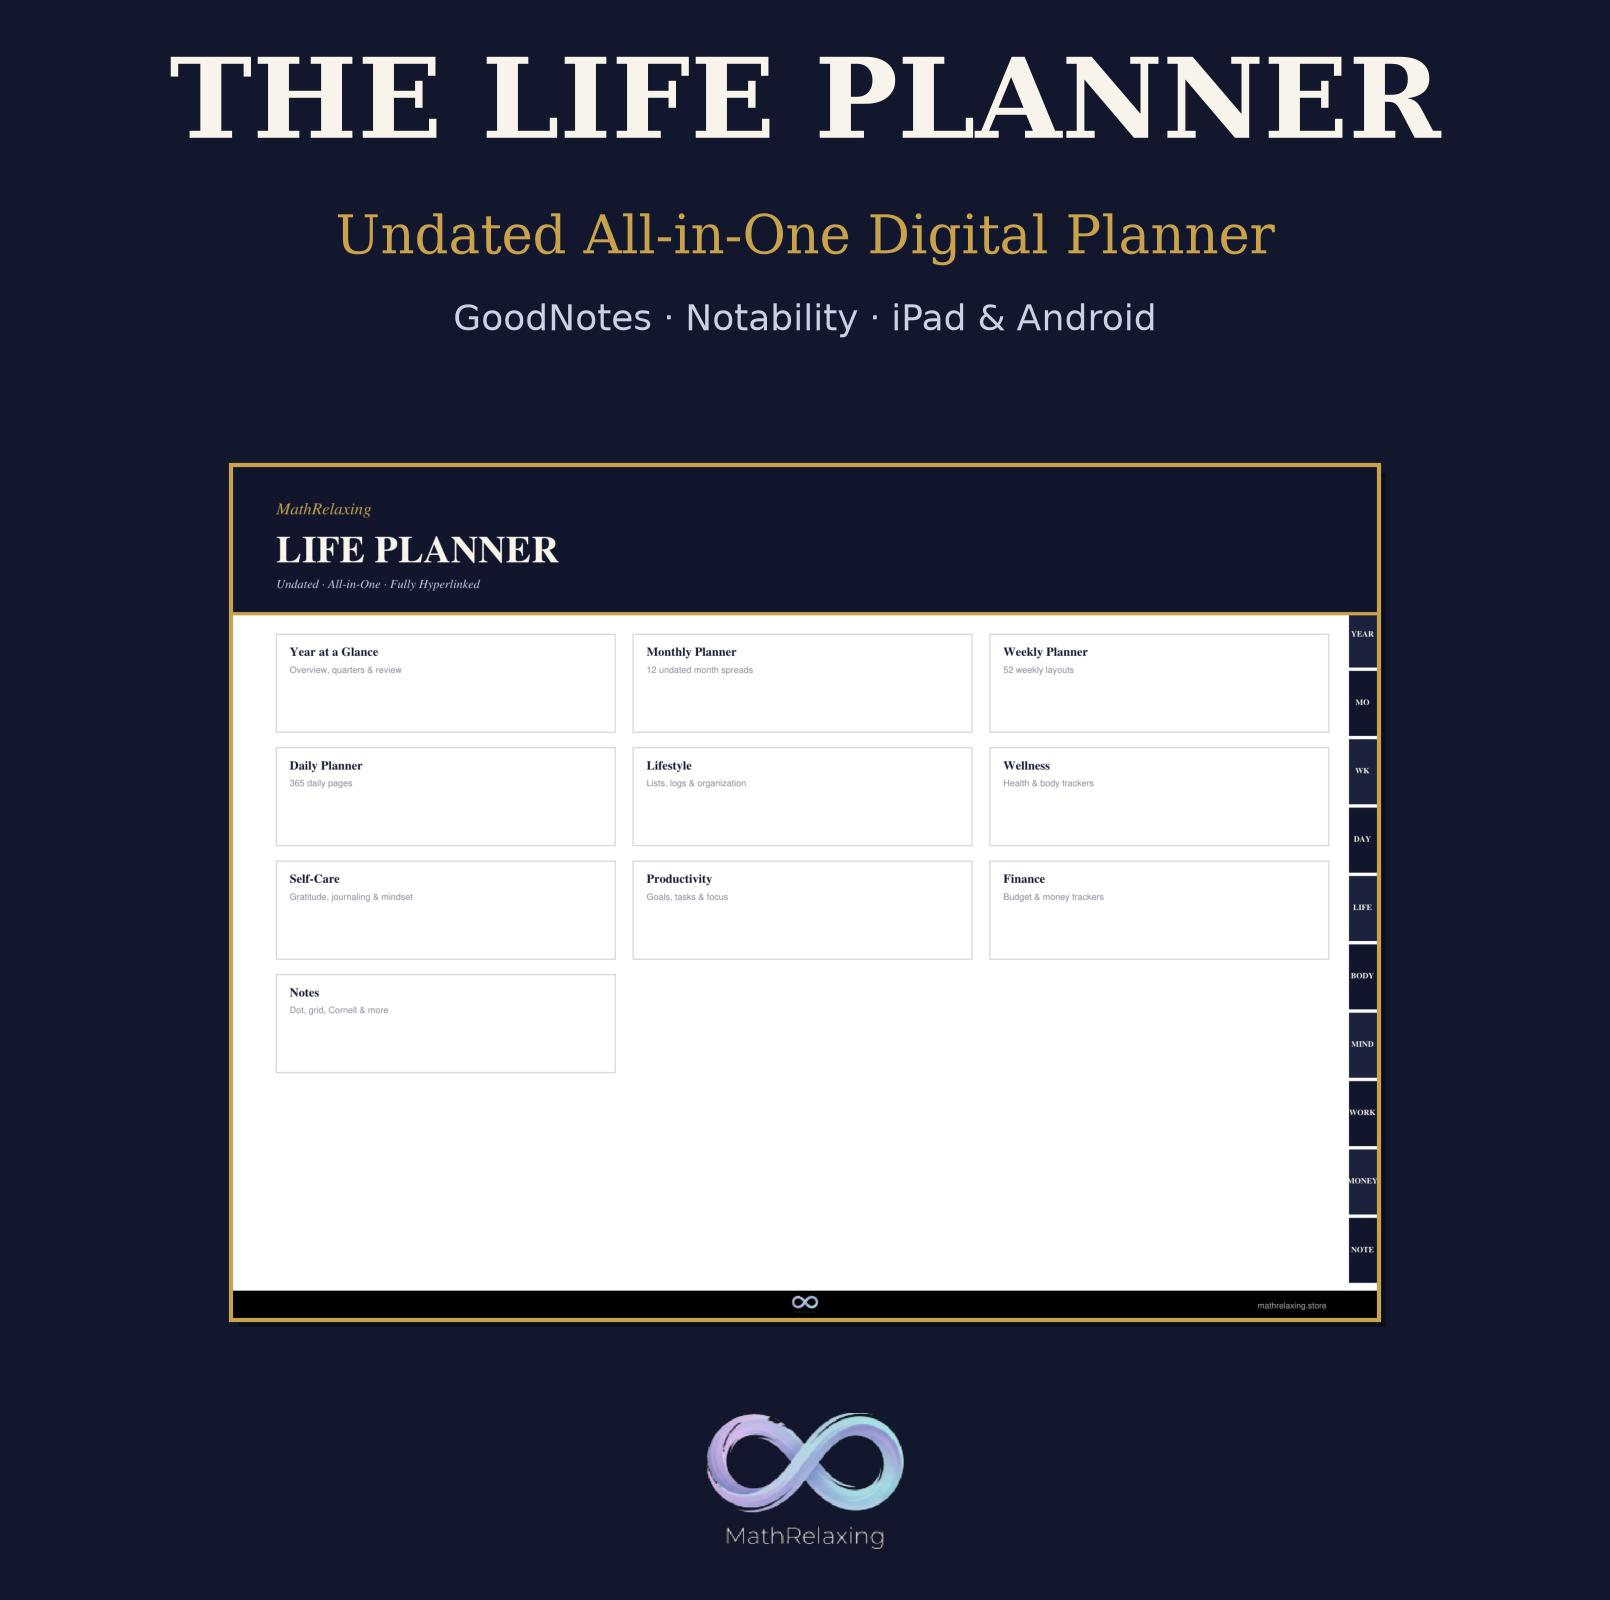
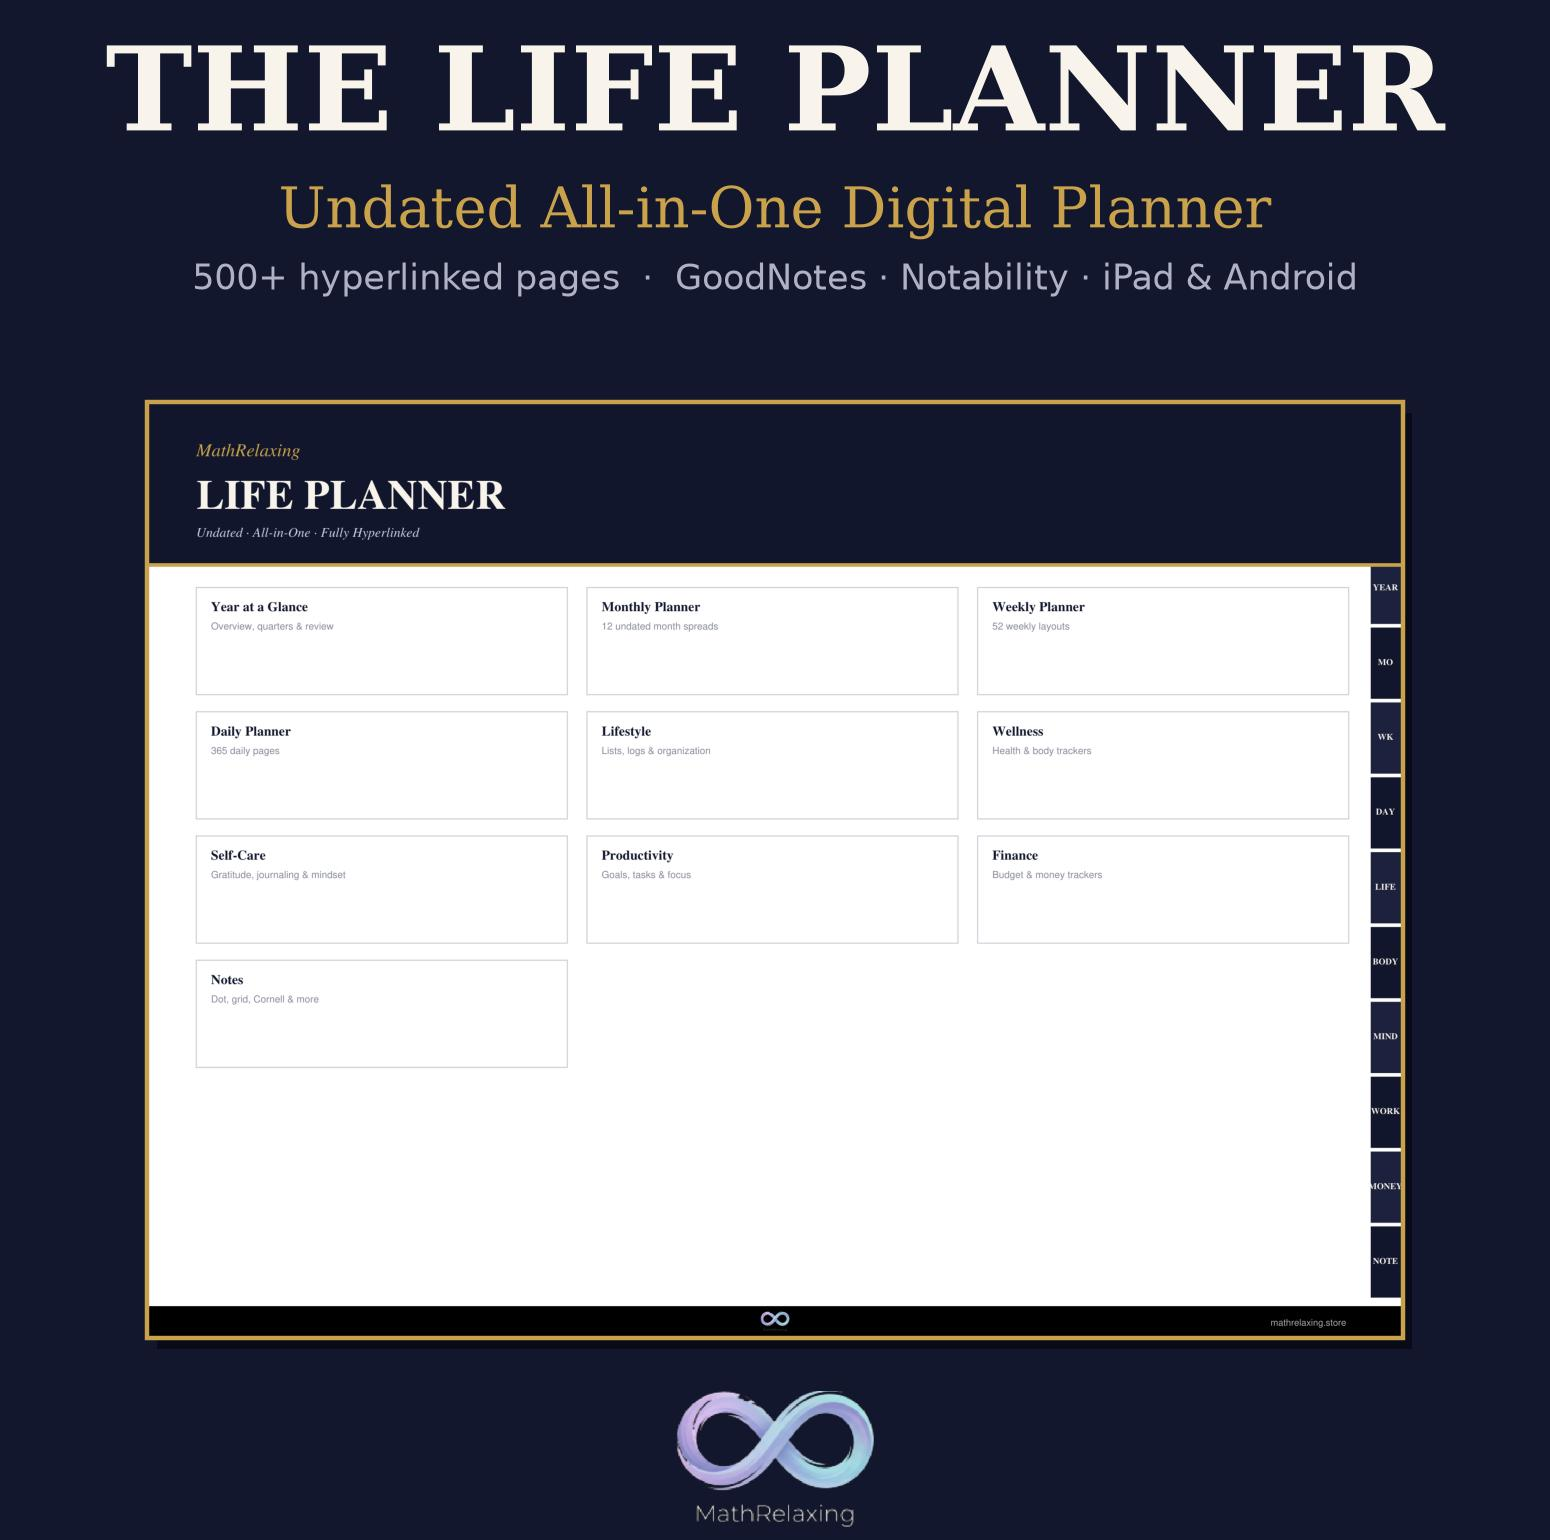
Rehace los previews del Life Planner: paginas grandes y legibles + 9 imagenes
El comprador ahora puede LEER cada detalle. Reemplaza el set anterior (4-9
paginas apretadas en cada imagen) por showcases de 1-2 paginas a alta
resolucion (dpi 210) mas dos slides de texto:
- 1 hero (dashboard grande), 2 daily, 3 weekly, 4 month+year, 5 wellness+
  finance trackers, 6 productivity+self-care, 7 navegacion con callout de
  pestañas, 8 "what's included" (lista de secciones), 9 compatibilidad.
- _chip() ahora auto-dimensiona el ancho segun el texto (antes se cortaba).
- products_catalog.py: images list actualizada a las 9 nuevas previews.

diff --git a/life_planner/build_previews.py b/life_planner/build_previews.py
@@ -1,9 +1,9 @@
 """
 build_previews.py — imagenes de listing para el MathRelaxing Life Planner
 =========================================================================
-Renderiza paginas representativas del PDF a PNG y las compone en imagenes de
-2000x2000 (fondo navy iPad, logo MathRelaxing, titulos serif crema/oro),
-siguiendo el estilo de los demas listings de la tienda.
+Genera imagenes 2000x2000 (fondo navy, branding MathRelaxing) donde el
+comprador puede LEER cada pagina: showcases de una o dos paginas a alta
+resolucion + slides de "que incluye" y compatibilidad.
 
 Uso: python build_previews.py   (requiere el PDF ya construido)
 """
@@ -14,6 +14,7 @@ import matplotlib
 matplotlib.use("Agg")
 import matplotlib.pyplot as plt
 import matplotlib.image as mpimg
+from matplotlib.patches import FancyBboxPatch, Rectangle
 
 sys.path.insert(0, os.path.dirname(os.path.dirname(os.path.abspath(__file__))))
 import brand
@@ -24,27 +25,19 @@ PREV = os.path.join(BASE, "previews")
 TMP = os.path.join(BASE, "_pagepng")
 
 NAVY = brand.IPAD_NAVY
+NAVY2 = "#0b0e1c"
 GOLD = brand.GOLD
 CREAM = brand.CREAM
+MUTED = "#aeb2c4"
 
-# indices de pagina representativos del build COMPLETO (501 paginas)
 PAGES = {
-    "dashboard": 0,
-    "year": 2,       # year_glance
-    "month": 11,
-    "week": 23,
-    "day": 75,
-    "hub_life": 440,
-    "gratitude": 463,     # MIND_0
-    "mood": 455,          # BODY_3
-    "habit": 474,         # WORK_2
-    "budget": 483,        # MONEY_1
-    "expense": 484,       # MONEY_2
-    "cornell": 496,       # NOTE_3
+    "dashboard": 0, "year_hub": 1, "year": 2, "month": 11, "week": 23,
+    "day": 75, "hub_life": 440, "gratitude": 463, "mood": 455, "habit": 474,
+    "budget": 483, "expense": 484, "cornell": 496, "vision": 459,
 }
 
 
-def render_pages(dpi=150):
+def render_pages(dpi=210):
     os.makedirs(TMP, exist_ok=True)
     doc = fitz.open(PDF)
     paths = {}
@@ -60,99 +53,171 @@ def render_pages(dpi=150):
 def _fig():
     fig, ax = plt.subplots(figsize=(10, 10))
     fig.patch.set_facecolor(NAVY)
+    ax.set_facecolor(NAVY)
     ax.axis("off")
     ax.set_xlim(0, 10)
     ax.set_ylim(0, 10)
     return fig, ax
 
 
-def _shot(ax, path, x, y, w, border=GOLD, lw=1.5, shadow=True):
-    """Coloca una captura de pagina (4:3) centrada en (x,y) con ancho w."""
+def _page(ax, path, cx, cy, w, border=GOLD, lw=1.6):
     img = mpimg.imread(path)
     h = w * img.shape[0] / img.shape[1]
-    if shadow:
-        ax.add_patch(plt.Rectangle((x - w / 2 + 0.05, y - h / 2 - 0.05), w, h,
-                                   facecolor="black", alpha=0.35, zorder=2))
-    ax.imshow(img, extent=[x - w / 2, x + w / 2, y - h / 2, y + h / 2], zorder=3)
-    ax.add_patch(plt.Rectangle((x - w / 2, y - h / 2), w, h, fill=False,
-                               edgecolor=border, lw=lw, zorder=4))
+    # sombra
+    ax.add_patch(Rectangle((cx - w / 2 + 0.06, cy - h / 2 - 0.07), w, h,
+                           facecolor="black", alpha=0.45, zorder=2))
+    ax.imshow(img, extent=[cx - w / 2, cx + w / 2, cy - h / 2, cy + h / 2], zorder=3)
+    ax.add_patch(Rectangle((cx - w / 2, cy - h / 2), w, h, fill=False,
+                           edgecolor=border, lw=lw, zorder=4))
     return h
+
+
+def _title(ax, y, s, size=30, color=CREAM, bold=True):
+    ax.text(5, y, s, ha="center", va="center", fontsize=size, color=color,
+            **(brand.SERIF_BOLD if bold else brand.SERIF))
+
+
+def _sub(ax, y, s, size=15, color=GOLD):
+    ax.text(5, y, s, ha="center", va="center", fontsize=size, color=color,
+            **brand.SERIF)
+
+
+def _chip(ax, x, y, s, size=12.5, h=0.5):
+    # ancho segun largo del texto para que nunca se corte
+    w = max(2.0, 0.16 * len(s) * size / 12.5 + 0.5)
+    ax.add_patch(FancyBboxPatch((x - w / 2, y - h / 2), w, h,
+                 boxstyle="round,pad=0.02,rounding_size=0.12",
+                 facecolor=GOLD, edgecolor="none", zorder=6))
+    ax.text(x, y, s, ha="center", va="center", fontsize=size, color=NAVY,
+            zorder=7, **brand.SERIF_BOLD)
 
 
 def _save(fig, name):
     os.makedirs(PREV, exist_ok=True)
     fig.savefig(os.path.join(PREV, name), dpi=200, facecolor=NAVY,
-                bbox_inches="tight", pad_inches=0.15)
+                bbox_inches="tight", pad_inches=0.0)
     plt.close(fig)
 
 
 def build(paths):
-    # 1 · HERO
+    # ── 1 · HERO ─────────────────────────────────────────────────────────────
     fig, ax = _fig()
-    ax.text(5, 9.3, "THE LIFE PLANNER", ha="center", fontsize=40,
-            color=CREAM, **brand.SERIF_BOLD)
-    ax.text(5, 8.55, "Undated All-in-One Digital Planner", ha="center",
-            fontsize=19, color=GOLD, **brand.SERIF)
-    ax.text(5, 8.05, "GoodNotes · Notability · iPad & Android",
-            ha="center", fontsize=13, color=(0.8, 0.82, 0.9), **brand.SANS)
-    _shot(ax, paths["dashboard"], 5, 4.4, 7.4)
-    brand.ipad_logo(ax, 5, 0.55, 1.5)
+    _title(ax, 9.35, "THE LIFE PLANNER", size=42)
+    _sub(ax, 8.62, "Undated All-in-One Digital Planner", size=20)
+    ax.text(5, 8.12, "500+ hyperlinked pages  ·  GoodNotes · Notability · iPad & Android",
+            ha="center", fontsize=12.5, color=MUTED, **brand.SANS)
+    _page(ax, paths["dashboard"], 5, 4.35, 8.1)
+    brand.ipad_logo(ax, 5, 0.5, 1.5)
     _save(fig, "life_preview_1_hero.jpg")
 
-    # 2 · CALENDAR SYSTEM
+    # ── 2 · DAILY (grande y legible) ────────────────────────────────────────
     fig, ax = _fig()
-    ax.text(5, 9.4, "A COMPLETE CALENDAR SYSTEM", ha="center", fontsize=26,
-            color=CREAM, **brand.SERIF_BOLD)
-    ax.text(5, 8.8, "Year · Month · Week · Day — all fully hyperlinked",
-            ha="center", fontsize=14, color=GOLD, **brand.SERIF)
-    _shot(ax, paths["year"], 2.9, 6.2, 4.6)
-    _shot(ax, paths["month"], 7.1, 6.2, 4.6)
-    _shot(ax, paths["week"], 2.9, 2.7, 4.6)
-    _shot(ax, paths["day"], 7.1, 2.7, 4.6)
-    _save(fig, "life_preview_2_calendar.jpg")
+    _title(ax, 9.4, "DAILY PLANNER", size=32)
+    _sub(ax, 8.8, "Schedule · Top 3 · To-do · Habits · Gratitude — 365 undated days")
+    _page(ax, paths["day"], 5, 4.5, 9.2)
+    _save(fig, "life_preview_2_daily.jpg")
 
-    # 3 · TRACKERS BREADTH
+    # ── 3 · WEEKLY ──────────────────────────────────────────────────────────
     fig, ax = _fig()
-    ax.text(5, 9.4, "50+ LIFE TRACKERS & TEMPLATES", ha="center", fontsize=25,
-            color=CREAM, **brand.SERIF_BOLD)
-    ax.text(5, 8.8, "Wellness · Finance · Productivity · Self-Care · Lifestyle",
-            ha="center", fontsize=13, color=GOLD, **brand.SERIF)
-    _shot(ax, paths["mood"], 2.7, 6.0, 4.3)
-    _shot(ax, paths["budget"], 7.3, 6.0, 4.3)
-    _shot(ax, paths["habit"], 2.7, 2.6, 4.3)
-    _shot(ax, paths["gratitude"], 7.3, 2.6, 4.3)
-    brand.ipad_logo(ax, 5, 0.5, 1.2)
-    _save(fig, "life_preview_3_trackers.jpg")
+    _title(ax, 9.4, "WEEKLY PLANNER", size=32)
+    _sub(ax, 8.8, "7-day spread · priorities · notes — 52 weeks, start any day")
+    _page(ax, paths["week"], 5, 4.5, 9.2)
+    _save(fig, "life_preview_3_weekly.jpg")
 
-    # 4 · HUB NAVIGATION
+    # ── 4 · MONTHLY + YEAR ──────────────────────────────────────────────────
     fig, ax = _fig()
-    ax.text(5, 9.4, "TAP TO JUMP ANYWHERE", ha="center", fontsize=27,
-            color=CREAM, **brand.SERIF_BOLD)
-    ax.text(5, 8.8, "Category hubs + side tabs on every single page",
-            ha="center", fontsize=14, color=GOLD, **brand.SERIF)
-    _shot(ax, paths["hub_life"], 3.4, 4.7, 5.6)
-    _shot(ax, paths["expense"], 7.4, 3.4, 4.0, lw=1.2)
-    brand.ipad_logo(ax, 5, 0.55, 1.3)
-    _save(fig, "life_preview_4_navigation.jpg")
+    _title(ax, 9.4, "MONTH & YEAR AT A GLANCE", size=27)
+    _sub(ax, 8.82, "12 monthly spreads · yearly overview · quarterly planners")
+    _page(ax, paths["month"], 2.85, 4.8, 5.4)
+    _page(ax, paths["year"], 7.15, 4.8, 5.4)
+    _chip(ax, 2.85, 1.5, "Tap a month to jump")
+    _chip(ax, 7.15, 1.5, "Q1 · Q2 · Q3 · Q4")
+    _save(fig, "life_preview_4_monthyear.jpg")
 
-    # 5 · WHAT'S INCLUDED (mosaico)
+    # ── 5 · WELLNESS & FINANCE TRACKERS ─────────────────────────────────────
     fig, ax = _fig()
-    ax.text(5, 9.45, "500+ HYPERLINKED PAGES", ha="center", fontsize=27,
-            color=CREAM, **brand.SERIF_BOLD)
-    ax.text(5, 8.9, "One planner for every part of your life",
-            ha="center", fontsize=14, color=GOLD, **brand.SERIF)
-    tiles = ["dashboard", "month", "day", "mood", "budget", "habit",
-             "gratitude", "cornell", "week"]
-    cols = 3
-    x0, y0 = 2.2, 6.7
-    dx, dy = 2.8, 2.55
-    for i, key in enumerate(tiles):
-        if key not in paths:
-            continue
-        r = i // cols
-        c = i % cols
-        _shot(ax, paths[key], x0 + c * dx, y0 - r * dy, 2.55, lw=1.0, shadow=False)
-    _save(fig, "life_preview_5_included.jpg")
+    _title(ax, 9.4, "TRACK YOUR BODY & MONEY", size=27)
+    _sub(ax, 8.82, "Mood · sleep · water · budget · expenses · savings & more")
+    _page(ax, paths["mood"], 2.85, 4.8, 5.4)
+    _page(ax, paths["budget"], 7.15, 4.8, 5.4)
+    brand.ipad_logo(ax, 5, 0.55, 1.2)
+    _save(fig, "life_preview_5_trackers_a.jpg")
+
+    # ── 6 · PRODUCTIVITY & SELF-CARE ────────────────────────────────────────
+    fig, ax = _fig()
+    _title(ax, 9.4, "PLAN & REFLECT", size=27)
+    _sub(ax, 8.82, "Habit tracker · priority matrix · gratitude · vision board")
+    _page(ax, paths["habit"], 2.85, 4.8, 5.4)
+    _page(ax, paths["gratitude"], 7.15, 4.8, 5.4)
+    brand.ipad_logo(ax, 5, 0.55, 1.2)
+    _save(fig, "life_preview_6_trackers_b.jpg")
+
+    # ── 7 · NAVIGATION (detalle con callout) ────────────────────────────────
+    fig, ax = _fig()
+    _title(ax, 9.4, "TAP TO JUMP ANYWHERE", size=30)
+    _sub(ax, 8.8, "Category hubs + side tabs on every single page")
+    pw = 7.1
+    pcx = 4.15
+    _page(ax, paths["hub_life"], pcx, 4.75, pw)
+    # callout sobre la barra de pestañas (borde derecho de la pagina)
+    px_right = pcx + pw / 2
+    ax.annotate("Side tabs\non every\npage",
+                xy=(px_right - 0.12, 5.3), xytext=(px_right + 0.55, 6.7),
+                fontsize=13, color=CREAM, ha="left", va="center",
+                **brand.SERIF,
+                arrowprops=dict(arrowstyle="-|>", color=GOLD, lw=2))
+    _chip(ax, pcx, 0.75, "Every card is a live link")
+    _save(fig, "life_preview_7_navigation.jpg")
+
+    # ── 8 · WHAT'S INCLUDED (slide de texto elegante) ───────────────────────
+    fig, ax = _fig()
+    _title(ax, 9.3, "WHAT'S INCLUDED", size=32)
+    ax.plot([3.3, 6.7], [8.75, 8.75], color=GOLD, lw=1.5)
+    rows = [
+        ("CALENDAR", "Year · 12 Months · 52 Weeks · 365 Days · Q1-Q4"),
+        ("LIFESTYLE", "Wishlist · Contacts · Book & Watch logs · Trips"),
+        ("WELLNESS", "Meal · Mood · Sleep · Water · Workout · more"),
+        ("SELF-CARE", "Gratitude · Bucket list · Vision board · Journaling"),
+        ("PRODUCTIVITY", "To-do · Priority matrix · Habits · Goals · Projects"),
+        ("FINANCE", "Budget · Expenses · Savings · Bills · Debt · more"),
+        ("NOTES", "Dot grid · Squared · Lined · Cornell · Isometric"),
+        ("NAVIGATION", "500+ hyperlinked pages · side tabs everywhere"),
+    ]
+    y = 7.9
+    for head, body in rows:
+        ax.text(1.25, y, head, ha="left", va="center", fontsize=14.5,
+                color=GOLD, **brand.SERIF_BOLD)
+        ax.text(4.05, y, body, ha="left", va="center", fontsize=11.8,
+                color=CREAM, **brand.SANS)
+        y -= 0.82
+    brand.ipad_logo(ax, 5, 0.7, 1.3)
+    _save(fig, "life_preview_8_included.jpg")
+
+    # ── 9 · COMPATIBILITY / FORMAT ──────────────────────────────────────────
+    fig, ax = _fig()
+    _title(ax, 8.9, "WORKS EVERYWHERE YOU PLAN", size=27)
+    apps = ["GoodNotes", "Notability", "Penly", "Xodo", "Noteshelf", "Kilonotes"]
+    y = 7.4
+    for i, a in enumerate(apps):
+        col = i % 2
+        row = i // 2
+        x = 3.0 + col * 4.0
+        yy = y - row * 1.15
+        ax.text(x - 0.45, yy, "✓", ha="center", va="center", fontsize=20,
+                color=GOLD, **brand.SANS)
+        ax.text(x, yy, a, ha="left", va="center", fontsize=17, color=CREAM,
+                **brand.SERIF)
+    facts = ["Undated — start any day, reuse every year",
+             "Instant digital download — no shipping",
+             "iPad · Android · Windows tablets",
+             "A separate annotation app is required"]
+    yy = 3.4
+    for f in facts:
+        ax.text(5, yy, f, ha="center", va="center", fontsize=13, color=MUTED,
+                **brand.SERIF)
+        yy -= 0.6
+    brand.ipad_logo(ax, 5, 0.6, 1.3)
+    _save(fig, "life_preview_9_compatibility.jpg")
 
     print("Previews en", PREV)
 

diff --git a/products_catalog.py b/products_catalog.py
@@ -523,10 +523,14 @@ PRODUCTS = {
         "taxonomy_id": TAXONOMY["planner_template"],
         "images": [
             p("life_planner", "previews", "life_preview_1_hero.jpg"),
-            p("life_planner", "previews", "life_preview_2_calendar.jpg"),
-            p("life_planner", "previews", "life_preview_3_trackers.jpg"),
-            p("life_planner", "previews", "life_preview_4_navigation.jpg"),
-            p("life_planner", "previews", "life_preview_5_included.jpg"),
+            p("life_planner", "previews", "life_preview_2_daily.jpg"),
+            p("life_planner", "previews", "life_preview_3_weekly.jpg"),
+            p("life_planner", "previews", "life_preview_4_monthyear.jpg"),
+            p("life_planner", "previews", "life_preview_5_trackers_a.jpg"),
+            p("life_planner", "previews", "life_preview_6_trackers_b.jpg"),
+            p("life_planner", "previews", "life_preview_7_navigation.jpg"),
+            p("life_planner", "previews", "life_preview_8_included.jpg"),
+            p("life_planner", "previews", "life_preview_9_compatibility.jpg"),
         ],
         "files": [
             p("life_planner", "MathRelaxing_Life_Planner.pdf"),
